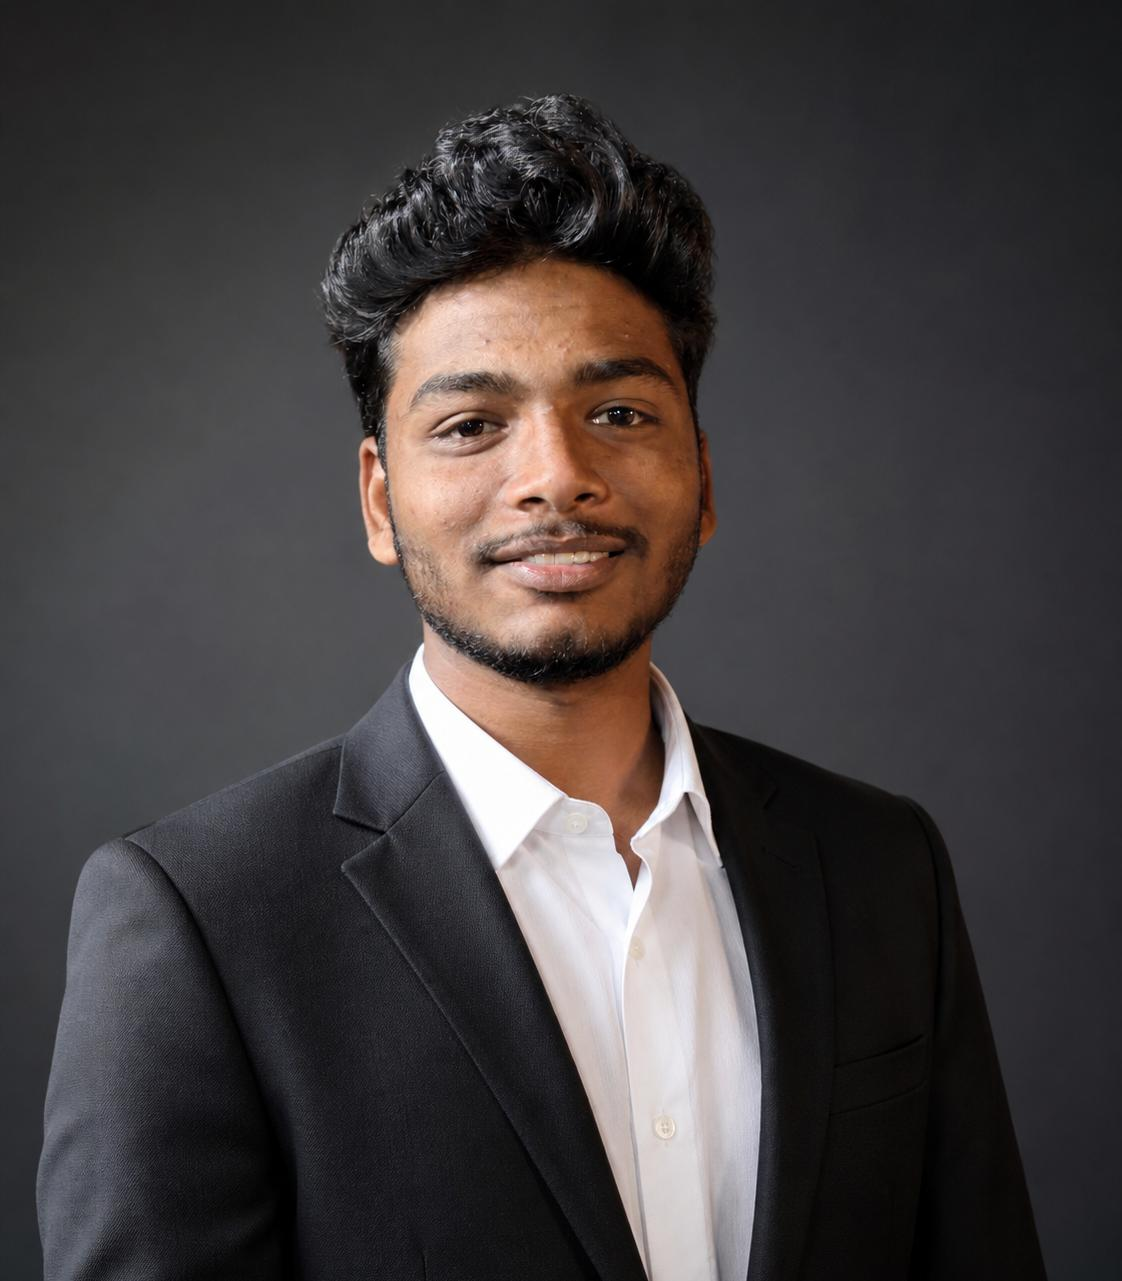
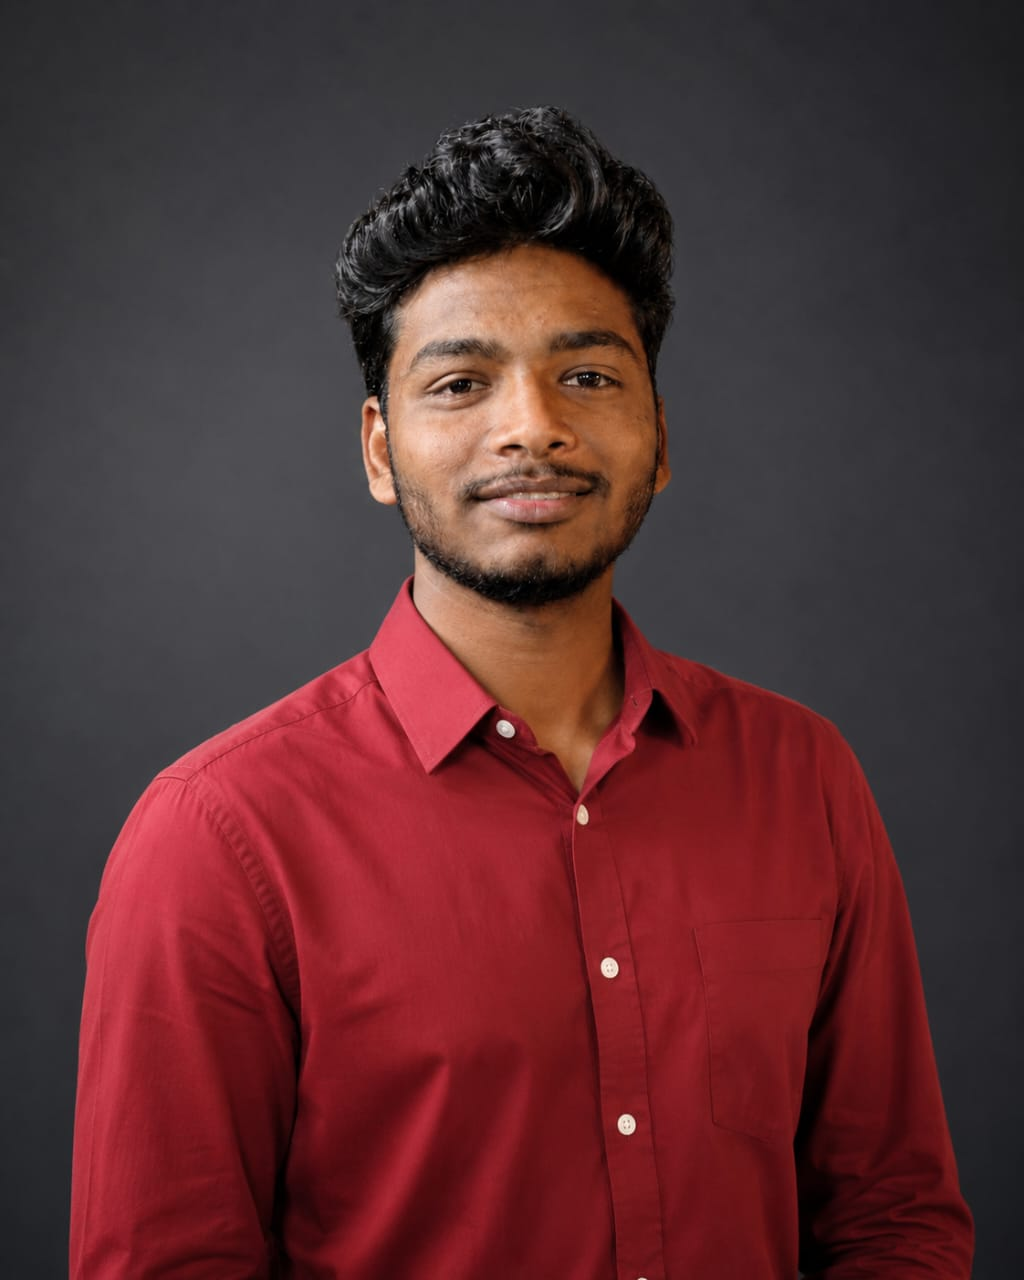
Add files via upload

diff --git a/index.html b/index.html
@@ -52,6 +52,19 @@
                 <p><b>Weather App</b></p>
                 <p>Real-time weather using API</p>
                 <a href="projects/Weather/weather.html" class="button">Open project</a>
+                
+                <br><br>
+                
+                <h3>FuelAssist</h3>
+
+                <p>
+                Emergency fuel delivery platform with real-time updates using React, TypeScript, Django and WebSockets.
+                </p>
+
+                <a href="https://fuelassist-emergency-fuel-delivery.vercel.app" target="_blank" class="button">
+                Open Project
+                </a>
+                </div>
             </div>
 
         </div>

diff --git a/style.css b/style.css
@@ -163,3 +163,32 @@ h1 {
 .button:hover {
     background: #0072ff;
 }
+.project-card {
+  background: #ffffff;
+  padding: 20px;
+  border-radius: 12px;
+  box-shadow: 0 4px 12px rgba(0,0,0,0.1);
+  margin-top: 20px;
+}
+
+.project-card h3 {
+  margin-bottom: 10px;
+}
+
+.project-card p {
+  margin-bottom: 10px;
+}
+
+.project-links {
+  margin-top: 15px;
+  display: flex;
+  gap: 12px;
+}
+
+.project-links a {
+  text-decoration: none;
+  padding: 8px 14px;
+  border-radius: 8px;
+  background: #2563eb;
+  color: white;
+}
